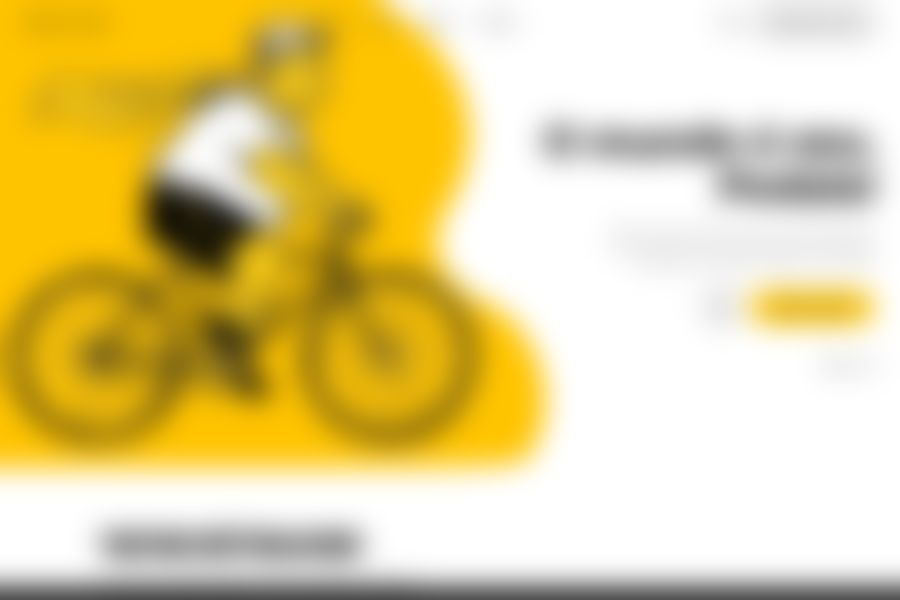
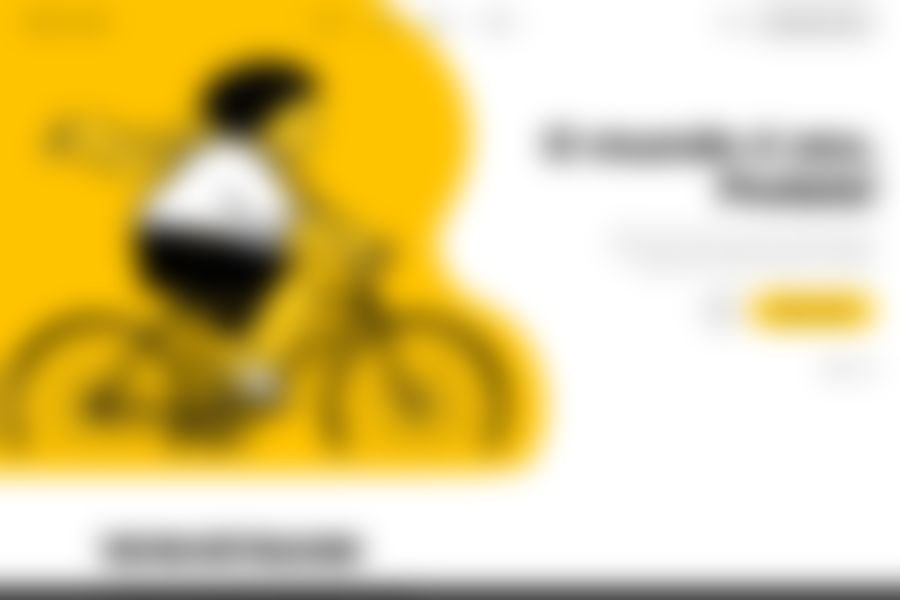
Roda Livre: nova ilustração do ciclista, sem fundo, sobre a mancha

Changed region(s): [[0.0, 0.0, 0.5911, 0.81], [0.0311, 0.15, 0.0622, 0.18]]

diff --git a/src/components/models/BikeFold.tsx b/src/components/models/BikeFold.tsx
@@ -81,7 +81,7 @@ export function BikeFold({ client }: { client?: { name?: string; whatsapp?: stri
         .bk0 .mmenu a{padding:14px 12px;font-weight:800;cursor:pointer}
         .bk0 .hero{position:relative;min-height:620px;display:grid;grid-template-columns:1.05fr 1fr;align-items:center;margin-top:-74px;padding:74px 40px 40px 0}
         .bk0 .blob{position:absolute;left:0;top:0;width:62%;height:100%;z-index:0}
-        .bk0 .rider{position:relative;z-index:1;width:104%;max-width:840px;height:auto;margin-left:16px;margin-top:-40px}
+        .bk0 .rider{position:relative;z-index:1;width:112%;max-width:960px;height:auto;margin-left:8px;margin-top:20px}
         .bk0 .ht{position:relative;z-index:2;padding-left:10px}
         .bk0 h1{font-family:'Montserrat',system-ui,sans-serif;font-weight:800;font-size:clamp(38px,5vw,66px);line-height:1.08;letter-spacing:-.02em;margin:0 0 26px;text-align:right}
         .bk0 .ht p{font-size:14.5px;line-height:1.75;color:${MUT};margin:0 0 30px;text-align:right;max-width:440px;margin-left:auto}
